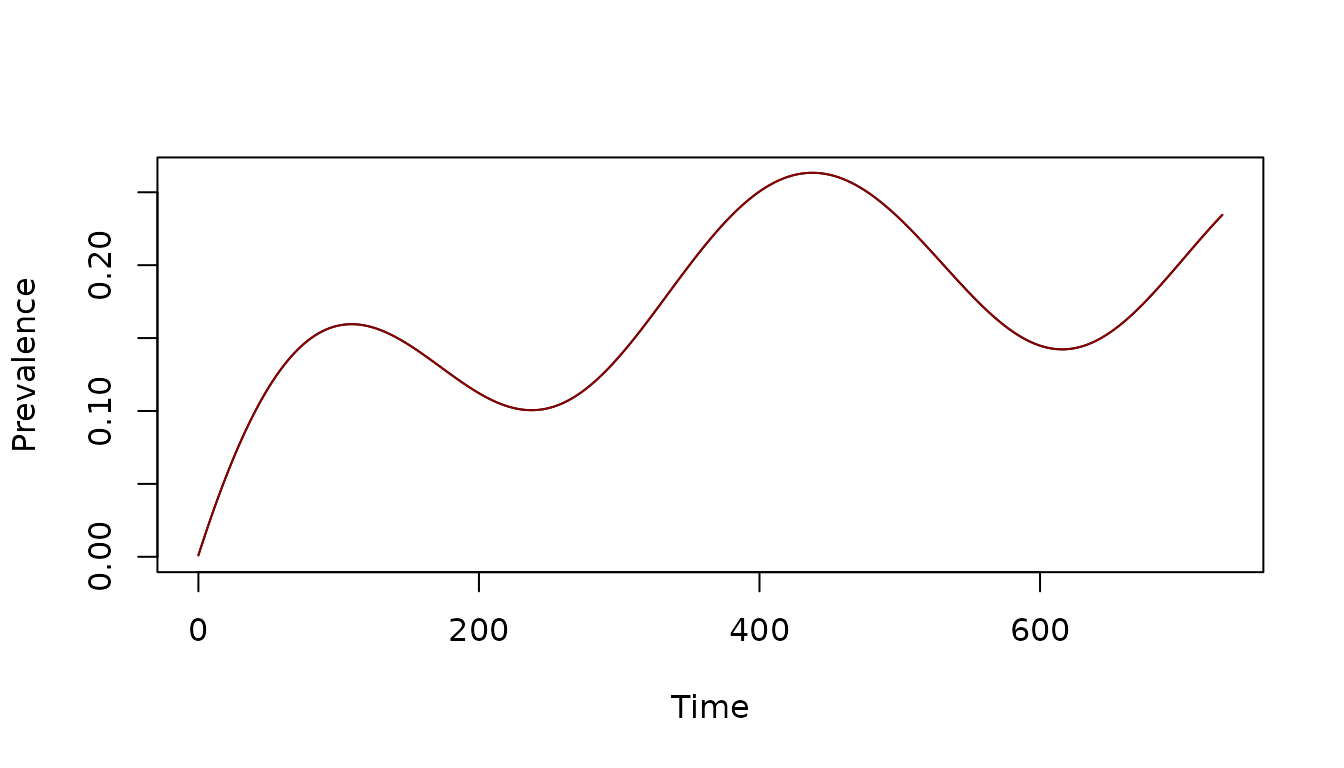
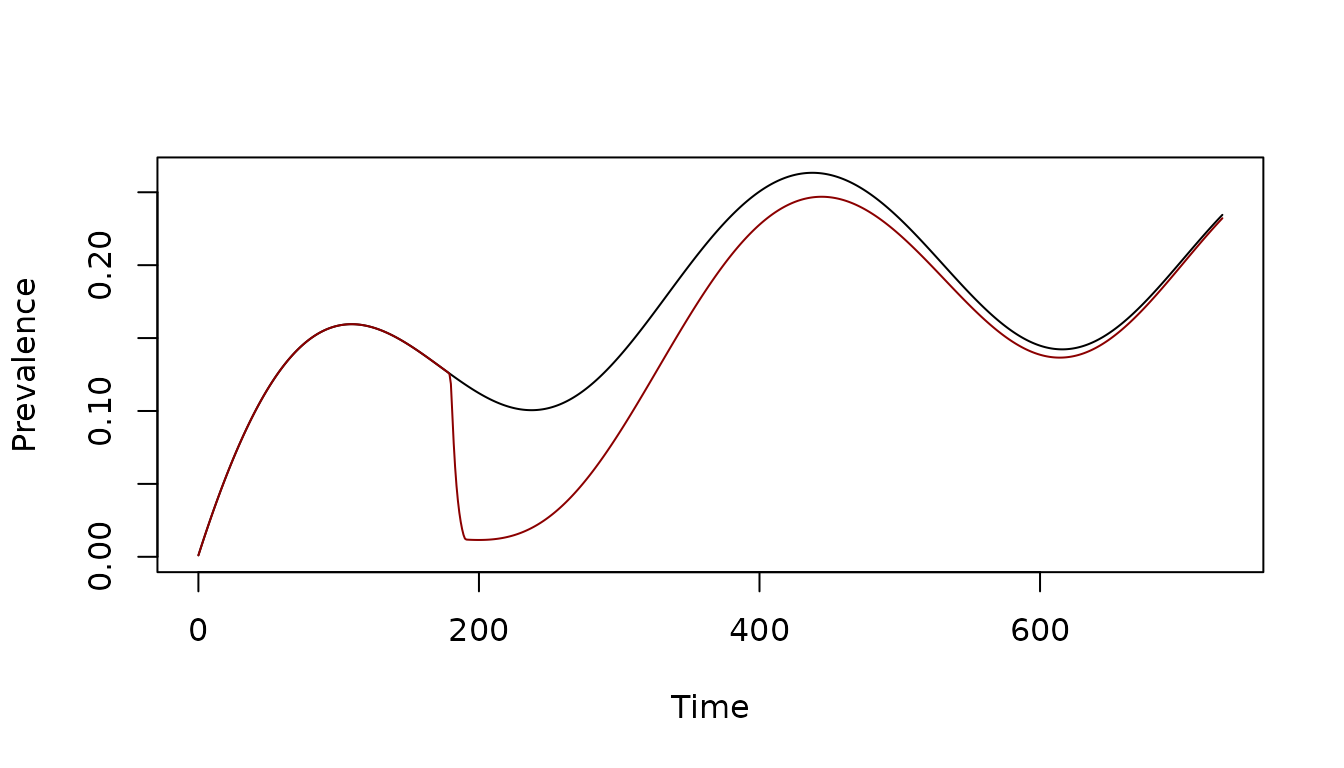
Deploying to gh-pages from @ dd-harp/ramp.control@68eecae91703c7ce27da0e1cb257b903897735e1 🚀

diff --git a/articles/MassTreatment.html b/articles/MassTreatment.html
@@ -94,6 +94,7 @@ testing (<code>test</code>).</p>
 <span><span class="va">frac_treated</span> <span class="op">=</span> <span class="fl">0.9</span></span>
 <span><span class="va">test</span> <span class="op">=</span> <span class="cn">FALSE</span> </span>
 <span><span class="va">model1</span> <span class="op">&lt;-</span> <span class="fu"><a href="../reference/setup_mass_treat_events.html">setup_mass_treat_events</a></span><span class="op">(</span><span class="va">model</span>, <span class="va">start</span>, <span class="va">span</span>, <span class="va">frac_treated</span>, <span class="va">test</span><span class="op">)</span></span></code></pre></div>
+<p>Now we solve and compare:</p>
 <div class="sourceCode" id="cb4"><pre class="downlit sourceCode r">
 <code class="sourceCode R"><span><span class="va">model1</span> <span class="op">&lt;-</span> <span class="fu"><a href="https://dd-harp.github.io/ramp.xds/reference/xds_solve.html" class="external-link">xds_solve</a></span><span class="op">(</span><span class="va">model1</span>, Tmax<span class="op">=</span><span class="fl">730</span><span class="op">)</span></span>
 <span><span class="fu"><a href="https://dd-harp.github.io/ramp.xds/reference/xds_plot_PR.html" class="external-link">xds_plot_PR</a></span><span class="op">(</span><span class="va">model</span><span class="op">)</span></span>
